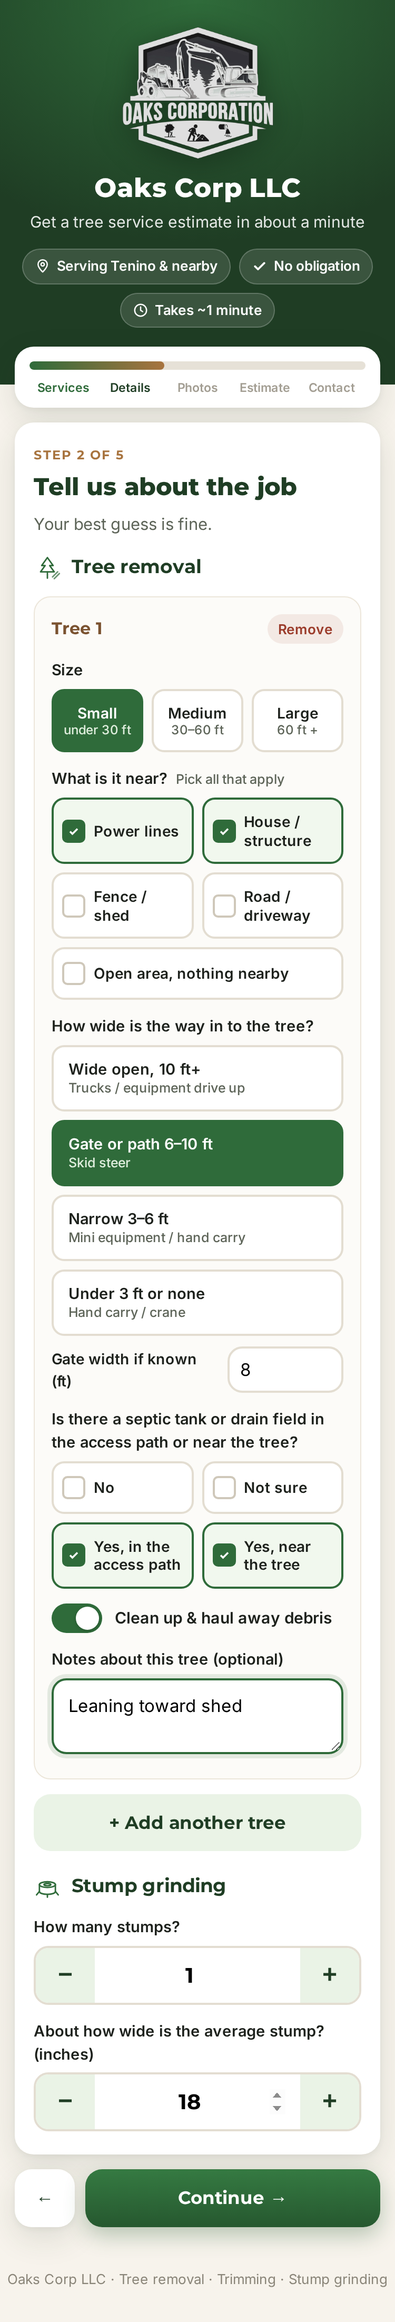
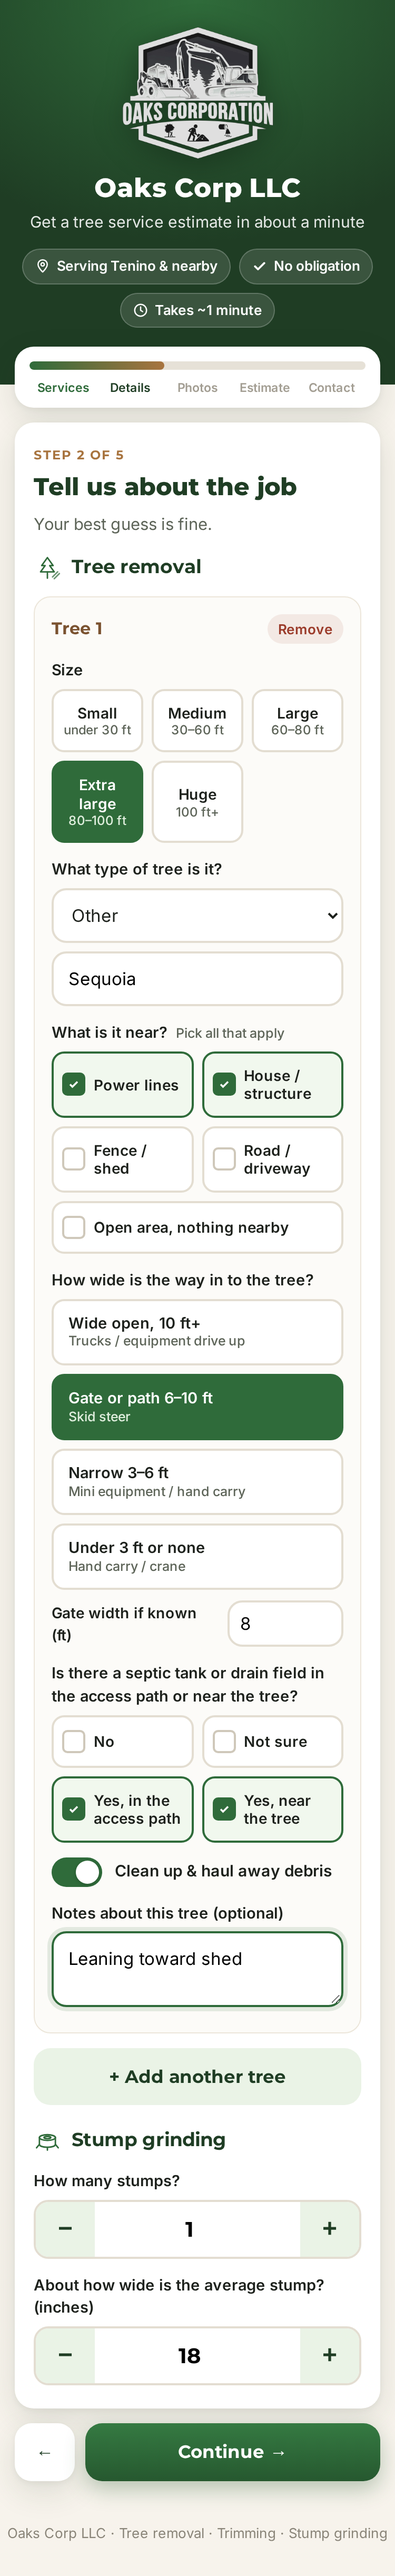
Add XL/Huge sizes, tree type selector (Oak near top)

Changed region(s): [[0.0, 0.0, 1.0, 0.9635], [0.8587, 0.2797, 0.8893, 0.3108]]

diff --git a/index.html b/index.html
@@ -17,12 +17,16 @@ const PRICES = {
   removal: {              // per tree (EXAMPLE placeholders)
     small:  [300, 700],   // under 30 ft
     medium: [700, 1500],  // 30–60 ft
-    large:  [1500, 3500]  // over 60 ft
+    large:  [1500, 3500], // 60–80 ft
+    xl:     [3000, 6000], // 80–100 ft
+    huge:   [5000, 10000] // 100 ft+
   },
   trimming: {             // per tree (EXAMPLE placeholders)
     small:  [150, 400],
     medium: [400, 900],
-    large:  [900, 2000]
+    large:  [900, 2000],  // 60–80 ft
+    xl:     [1500, 3000], // 80–100 ft
+    huge:   [2500, 5000]  // 100 ft+
   },
   stump: {                // stump grinding (EXAMPLE placeholders)
     perInchDiameter: [3, 5],  // $ per inch of diameter, per stump
@@ -46,7 +50,10 @@ const PRICES = {
   // Both can apply (they add together).
   septic: { path: 0.15, near: 0.10 },
   // Cleanup/haul-away, percent added to a tree's price — EXAMPLE placeholder
-  haulAway: 0.20
+  haulAway: 0.20,
+  // Tree type multiplier (1 = no change). All 1 for now — hook for later.
+  treeType: { douglasfir:1, redcedar:1, bigleafmaple:1, alder:1, oak:1, cottonwood:1,
+              hemlock:1, pine:1, birch:1, cherry:1, other:1, unsure:1 }
 };
 </script>
 <style>
@@ -141,6 +148,7 @@ footer{text-align:center;font-size:13px;color:#8a8579;padding:10px 0 30px}
 .fact-h{display:flex;align-items:center;gap:7px;font:700 13px Montserrat,sans-serif;letter-spacing:.8px;text-transform:uppercase;color:var(--b2)}.fact-h svg{width:18px;height:18px}
 .fact-t{margin:6px 0 4px;font-size:15px;line-height:1.45;min-height:3em;transition:opacity .4s}.fact-s{font-size:12px;color:var(--mut);text-decoration:underline;transition:opacity .4s}
 .notesbox{background:#fffaf2;border:2px solid #e6d6bf;border-radius:16px;padding:14px;margin-top:18px}.notesbox .fl{margin-top:0;font-size:17px;color:var(--b)}.notesbox textarea{min-height:110px}
+select{width:100%;font:16.5px Inter,sans-serif;padding:13px;border:2px solid #e3ddd1;border-radius:14px;background:#fff;color:var(--t)}
 </style>
 </head>
 <body>
@@ -254,9 +262,13 @@ function next1(){if(!sel.size){$('err1').style.display='block';return}
  $('removalSec').style.display=sel.has('removal')?'':'none';$('trimSec').style.display=sel.has('trimming')?'':'none';$('stumpSec').style.display=sel.has('stump')?'':'none';
  if(sel.has('removal')&&!$('removalList').children.length)addTree('removal');if(sel.has('trimming')&&!$('trimList').children.length)addTree('trimming');go(2)}
 function seg(cls,opts){return `<div class="seg" data-k="${cls}">${opts.map((o,i)=>`<button type="button" data-v="${o[0]}" class="${i?'':'sel'}">${o[1]}<small>${o[2]}</small></button>`).join('')}</div>`}
+const TYPES=[['unsure','Not sure'],['oak','Oak (Garry / Oregon white oak)'],['douglasfir','Douglas fir'],['redcedar','Western red cedar'],['bigleafmaple','Big leaf maple'],['alder','Alder'],['cottonwood','Cottonwood'],['hemlock','Hemlock'],['pine','Pine'],['birch','Birch'],['cherry','Cherry / fruit tree'],['other','Other']];
+const typeName=t=>{const v=t.querySelector('.ttype').value;return v==='other'?(t.querySelector('.tother').value.trim()||'Other'):TYPES.find(x=>x[0]===v)[1]};
 function addTree(type){const list=$(type==='removal'?'removalList':'trimList');const el=document.createElement('div');el.className='tree';el.dataset.type=type;
  el.innerHTML=`<div class="tree-h"><h3>Tree ${list.children.length+1}</h3><button class="x" type="button">Remove</button></div>
- <span class="fl">Size</span>${seg('size',[['small','Small','under 30 ft'],['medium','Medium','30–60 ft'],['large','Large','60 ft +']])}
+ <span class="fl">Size</span>${seg('size',[['small','Small','under 30 ft'],['medium','Medium','30–60 ft'],['large','Large','60–80 ft'],['xl','Extra large','80–100 ft'],['huge','Huge','100 ft+']])}
+ <span class="fl">What type of tree is it?</span><select class="ttype">${TYPES.map(t=>`<option value="${t[0]}">${t[1]}</option>`).join('')}</select>
+ <input class="tother" placeholder="What kind of tree?" style="display:none;margin-top:8px">
  <span class="fl">What is it near? <span class="hint">Pick all that apply</span></span>
  <div class="multi" data-k="near"><button type="button" data-v="powerlines">Power lines</button><button type="button" data-v="house">House / structure</button><button type="button" data-v="fence">Fence / shed</button><button type="button" data-v="road">Road / driveway</button><button type="button" data-v="open" data-x="1" class="full sel">Open area, nothing nearby</button></div>
  <span class="fl">How wide is the way in to the tree?</span>
@@ -267,6 +279,7 @@ function addTree(type){const list=$(type==='removal'?'removalList':'trimList');c
  <label class="tog"><input type="checkbox" class="haul" checked><i></i>Clean up &amp; haul away debris</label>
  <span class="fl">Notes about this tree (optional)</span><textarea class="tnotes" rows="2" placeholder="Species, leaning, dead limbs, anything else"></textarea>`;
  el.querySelector('.x').onclick=()=>{el.remove();[...list.children].forEach((t,i)=>t.querySelector('h3').textContent='Tree '+(i+1))};
+ el.querySelector('.ttype').onchange=e=>{el.querySelector('.tother').style.display=e.target.value==='other'?'block':'none'};
  el.querySelectorAll('.multi').forEach(g=>g.onclick=e=>{const b=e.target.closest('button');if(!b)return;
   if(b.dataset.x){g.querySelectorAll('button').forEach(x=>x.classList.toggle('sel',x===b))}else{b.classList.toggle('sel');g.querySelectorAll('[data-x]').forEach(x=>x.classList.remove('sel'));
   if(!g.querySelector('.sel'))g.querySelector('[data-x]').classList.add('sel')}});
@@ -297,7 +310,7 @@ function showFact(fade){const f=FACTS[fi%FACTS.length];document.querySelectorAll
 showFact(false);setInterval(()=>{fi++;showFact(true)},9000);
 let when='';document.querySelectorAll('.wopt').forEach(o=>o.onclick=()=>{document.querySelectorAll('.wopt').forEach(x=>x.classList.toggle('sel',x===o));when=o.dataset.v;$('emNote').style.display=when.startsWith('ASAP')?'flex':'none'});
 const fmt=v=>'$'+(Math.round(v/10)*10).toLocaleString();const val=(t,k)=>t.querySelector(`.seg[data-k="${k}"] .sel`).dataset.v;
-const NAMES={removal:'Removal',trimming:'Trimming',small:'small',medium:'medium',large:'large'};
+const NAMES={xl:'extra large',huge:'huge',removal:'Removal',trimming:'Trimming',small:'small',medium:'medium',large:'large'};
 const LBL={powerlines:'power lines',house:'house/structure',fence:'fence/shed',road:'road/driveway',open:'open area',wide:'wide open 10 ft+',gate:'gate/path 6–10 ft',narrow:'narrow 3–6 ft',none:'under 3 ft / none',no:'no',unsure:'not sure',path:'in access path',near:'near tree'};
 const multi=(t,k)=>[...t.querySelectorAll(`.multi[data-k="${k}"] .sel`)].map(b=>b.dataset.v);
 let treeInfo=[],septicFlag=false;
@@ -308,10 +321,10 @@ function calc(){let lo=0,hi=0;const lines=[];treeInfo=[];septicFlag=false;
   const acc=t.querySelector('.acc .sel').dataset.v,sep=multi(t,'septic'),sepAdd=sep.reduce((a,v)=>a+(PRICES.septic[v]||0),0);
   if(sep.includes('path')||sep.includes('near'))septicFlag=true;
   const gw=t.querySelector('.gwidth').value,haul=t.querySelector('.haul').checked;
-  const m=1+hazAdd+PRICES.access[acc]+sepAdd+(haul?PRICES.haulAway:0);
-  const name=`${NAMES[t.dataset.type]} · ${t.querySelector('h3').textContent.toLowerCase()} (${val(t,'size')})`;
-  const det=`Near: ${(near.length?near:['open']).map(v=>LBL[v]).join(', ')} · Access: ${LBL[acc]}${gw?` (gate ${gw} ft)`:''} · Septic/drain field: ${sep.map(v=>LBL[v]).join(' + ')}${haul?' · Haul-away':''}`;
-  treeInfo.push({service:t.dataset.type,size:val(t,'size'),near:near.length?near:['open'],access:acc,gateWidthFt:gw||null,septic:sep,haulAway:haul,notes:t.querySelector('.tnotes').value,range:fmt(b[0]*m)+'–'+fmt(b[1]*m)});
+  const tm=PRICES.treeType[t.querySelector('.ttype').value]||1;const m=tm*(1+hazAdd+PRICES.access[acc]+sepAdd+(haul?PRICES.haulAway:0));
+  const name=`${NAMES[t.dataset.type]} · ${t.querySelector('h3').textContent.toLowerCase()} (${NAMES[val(t,'size')]})`;
+  const det=`Type: ${typeName(t)} · Near: ${(near.length?near:['open']).map(v=>LBL[v]).join(', ')} · Access: ${LBL[acc]}${gw?` (gate ${gw} ft)`:''} · Septic/drain field: ${sep.map(v=>LBL[v]).join(' + ')}${haul?' · Haul-away':''}`;
+  treeInfo.push({service:t.dataset.type,size:val(t,'size'),treeType:typeName(t),near:near.length?near:['open'],access:acc,gateWidthFt:gw||null,septic:sep,haulAway:haul,notes:t.querySelector('.tnotes').value,range:fmt(b[0]*m)+'–'+fmt(b[1]*m)});
   lo+=b[0]*m;hi+=b[1]*m;lines.push([name+`<span class="sub2">${det}</span>`,fmt(b[0]*m)+'–'+fmt(b[1]*m)])});
  if(sel.has('stump')){const c=Math.max(1,+$('stumpCount').value||1),d=Math.max(1,+$('stumpDia').value||1),s=PRICES.stump;
   let sl=c*Math.max(s.minimumPerStump[0],d*s.perInchDiameter[0]),sh=c*Math.max(s.minimumPerStump[1],d*s.perInchDiameter[1]);
